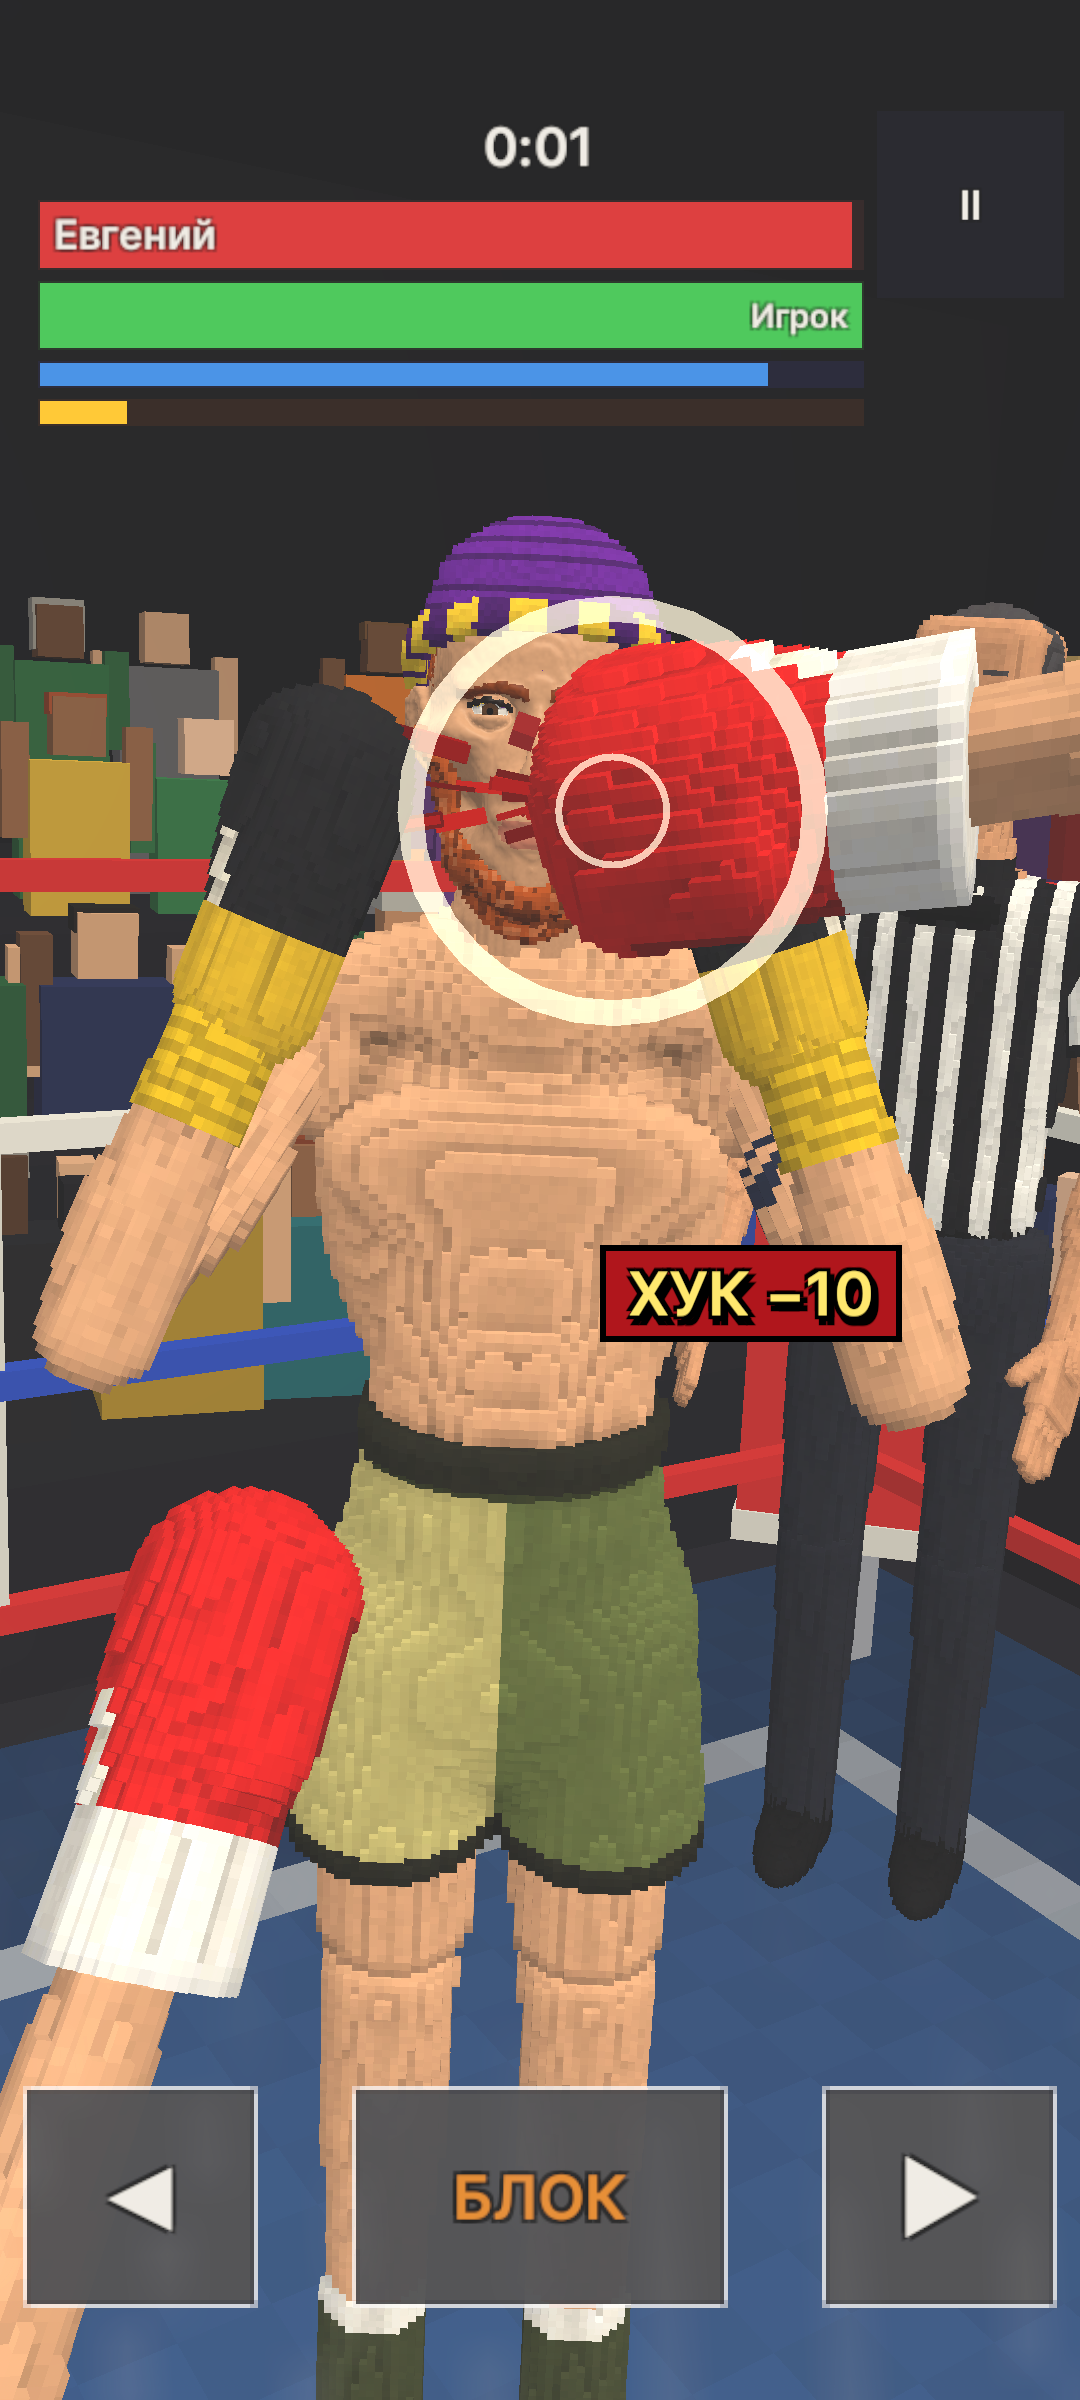
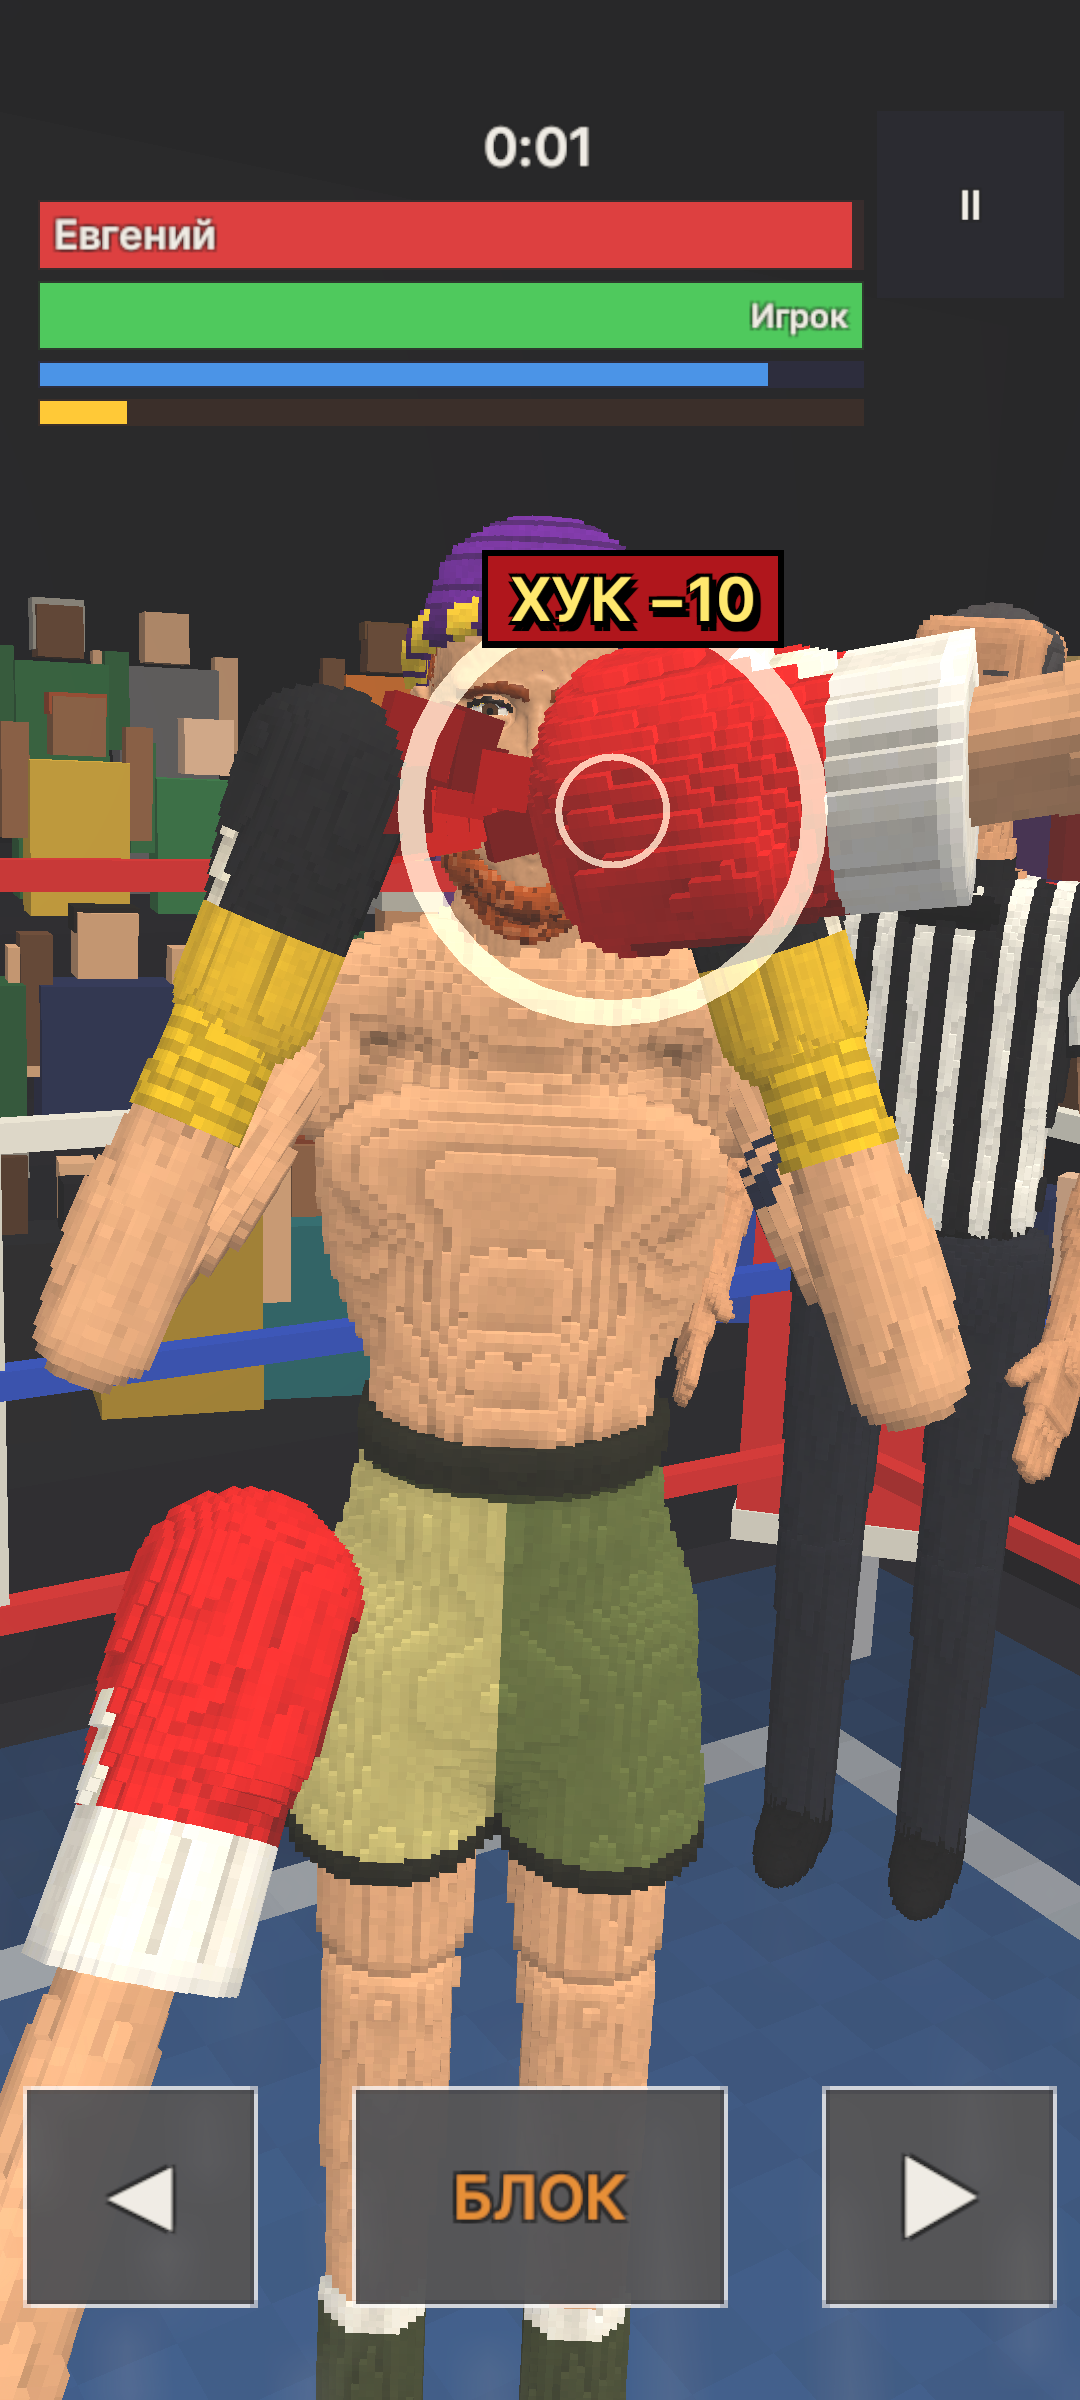
HIT-FX-2, доработка 2: отчёт (до/после, время 0,83/1,28 мс, тесты 232/0 и 65/0, seed 77) и пересъёмка Shots/hit-fx-2

Changed region(s): [[0.3361, 0.2188, 0.7333, 0.375], [0.55, 0.5, 0.8556, 0.5625]]

diff --git a/Unity/HIT-FX-2.md b/Unity/HIT-FX-2.md
@@ -96,3 +96,58 @@
 - Плашка обходит только перчатки. Предплечье и плечо игрока она может перекрыть: рисуется поверх них, это не мешает читать.
 - Метки травм и баннеры (мега, нокдаун) не трогал. Брызги на объективе и кольца — тоже.
 - На телефоне не проверено, сборки плеера не было. Safe-area в замере — искусственная (как в снимках UIRoot), реальный вырез телефона не проверялся.
+
+## Доработка 2 (26.11.2026)
+
+Замечания: крови на пике хука и джеба мало; плашка далеко от точки удара. База «до» — коммит `a8d7ad5`. Всё снято тем же `HitFx2Shots` в редакторе.
+
+### Что изменено
+
+- **Кровь** (`FxParticles.BloodBurst`, `FxDirector`). Капель: джеб 36, хук и апперкот 84 (было 12 / 30). Каждая шестая капля крупнее (×1,8), все капли в 2,4 раза крупнее (`DropK`). Треть капель быстрые (0,8–1,7), остальные медленные: облако остаётся у точки. Ограничения «к камере ≤0,9 м/с» и «вверх ≤2,2 м/с» прежние. У мега-удара 180 капель (было 140): старый тест `Impact_ScalesWithPower` требует, чтобы у меги было больше крови, чем у двух апперкотов. Пул (640) и пределы не трогал. Пик частиц в замере — 518 из 640.
+- **Плашка** (`FxPops`, `FxDirector`, `GloveLooks`). Старый короб сетки перчатки был слишком грубым: у джеба плашка заходила на перчатку (0,11 по пикселям), а хук не пускал ближе 0,23. Теперь при постройке перчатки из её SDF берутся точки поверхности с шагом 1,5 см (`GloveLooks.Silhouette`; сетка на ЦП не читается). Пока плашка проявляется, эти точки раз в кадр проецируются в маску 96×96 клеток. Перекрытие считается по суммам маски. Пятно точки — 0,9 шага; первые 4 % площади маски не штрафуются, потому что маска шире силуэта. Места перебираются от ближних к дальним (сетка 49×45 с шагом 0,04 × 0,03 меньшей стороны, затем уточнение с шагом 1/4 и 1/16 шага сетки). Цена места не меньше его расстояния, поэтому перебор останавливается, как только расстояние превысит лучшую цену. Короб перчатки остался запасным путём, если маски нет. Кольца удара рисуются под плашкой (`renderQueue` 3000).
+- **Тест** `HitFx2_Criteria`: перекрытие перчатками по пикселям ≤0,05, расстояние ≤0,22, кольцо не на тексте, рост крови к числам «до» (видимых ≥2,5×, пикселей ≥3×; апперкот не меньше).
+
+### До / после
+
+Портрет 1080×2400; расстояние — в долях ширины (в ландшафте — высоты).
+
+| | джеб до | джеб после | хук до | хук после | апперкот до | апперкот после |
+|---|---|---|---|---|---|---|
+| **видимых капель на 0,15 с** | 12 | **36** (3,0×) | 34 | **88** (2,6×) | 34 | 88 |
+| **пикселей крови на 0,15 с** | 93 | **16 328** (176×) | 5 455 | **18 767** (3,4×) | 18 766 | 57 610 |
+| в круге 0,2·W на 0,15 с | 0,92 | 0,83 | 1,00 | 0,91 | 1,00 | 1,00 |
+| через 0,5 с выше точки или за камерой | 0 | 0 | 0 | 0 | 0 | 0 |
+| **плашка: расстояние до точки удара** | 0,46 | **0,165** | 0,45 | **0,219** | 0,28 | **0,093** |
+| то же, ландшафт | 0,54 | 0,216 | 0,54 | 0,181 | 0,48 | 0,104 |
+| перекрытие перчатками по пикселям, портрет / ландшафт | 0 / 0 | 0,022 / 0 | 0 / 0 | 0 / 0 | 0 / 0 | 0 / 0,001 |
+| кольцо на тексте | 0 | 0 | 0 | 0 | 0,22 | 0 |
+| контраст | 18,59 | 18,59 | 5,77 | 5,77 | 5,77 | 5,77 |
+
+Ландшафт, пикселей крови на 0,15 с: 34 / 665 / 5 629 → 3 366 / 3 546 / 27 891. Safe-area, полосы HUD и счётчик комбо — без нарушений во всех шести случаях.
+
+Перекрытие перчатками теперь считается по пикселям: перчатки прячутся, кадр сравнивается с обычным. Короб перчатки (поле `plateGloveFrac`) для критерия не годится. Плашка, которая стоит вплотную к скруглённому краю, по коробу «перекрыта» на 0,2–0,9, а по пикселям — на 0.
+
+### Время (`HitFxBench(40)`, мс)
+
+| | этап 1 | доработка 2 |
+|---|---|---|
+| эффекты в кадре удара, медиана / p90 | 0,60 / 0,89 | **0,83 / 1,28** |
+| тик эффектов в 20 кадрах после удара, медиана / p90 | 0,33 / 0,56 | 0,48 / 0,74 |
+| пик частиц | 391 из 640 | 518 из 640 |
+
+Время выросло: капель втрое больше, плюс маска перчаток и выбор места. Первый вариант перебирал все 2 400 мест и давал 2,5 / 3,1 мс; отсечка по расстоянию вернула время в норму.
+
+### Тесты
+
+`VoxGame.Tests` — 232 / 0. `VoxProbe.Tests.Anatomy` — 65 / 0: в первом прогоне снова упал плавающий `StumpMuscleLayersRender`, во втором прошёл. Seed 77: 78 ударов, 147 880 / 149 586 / 157 850 / 156 238 / 51 928, куски 75 212 — совпало.
+
+### Снимки
+
+Весь набор в `Shots/hit-fx-2/` переснят под теми же именами и просмотрен. На `jab-peak.png` кровь видна у подбородка. Прежний вид — `v1-hook-peak.png` и `v1-jab-plate.png`.
+
+### Что не получилось или на грани
+
+- Хук в портрете — 0,219 при пороге 0,22, ландшафт-джеб — 0,216. Ближе мешает геометрия: в кадре удара перчатки занимают почти всю ширину от 0,17 до 0,74 высоты. Выше перчаток начинаются полосы HUD (0,82–0,84 высоты), а у ландшафт-джеба над перчаткой нет места на высоту плашки. Результат детерминирован, но запас — тысячные. Если плашка или HUD станут больше, хук в портрете выйдет за 0,22.
+- У джеба в портрете 2,2 % площади плашки лежат на краю перчатки: маска разрешает до 4 % перекрытия, потому что она шире силуэта.
+- В кадре `*-peak` у хука кровь частично закрыта перчаткой: облако физически за ней. Видно на `hook-peak-land.png`.
+- На телефоне не проверено.
